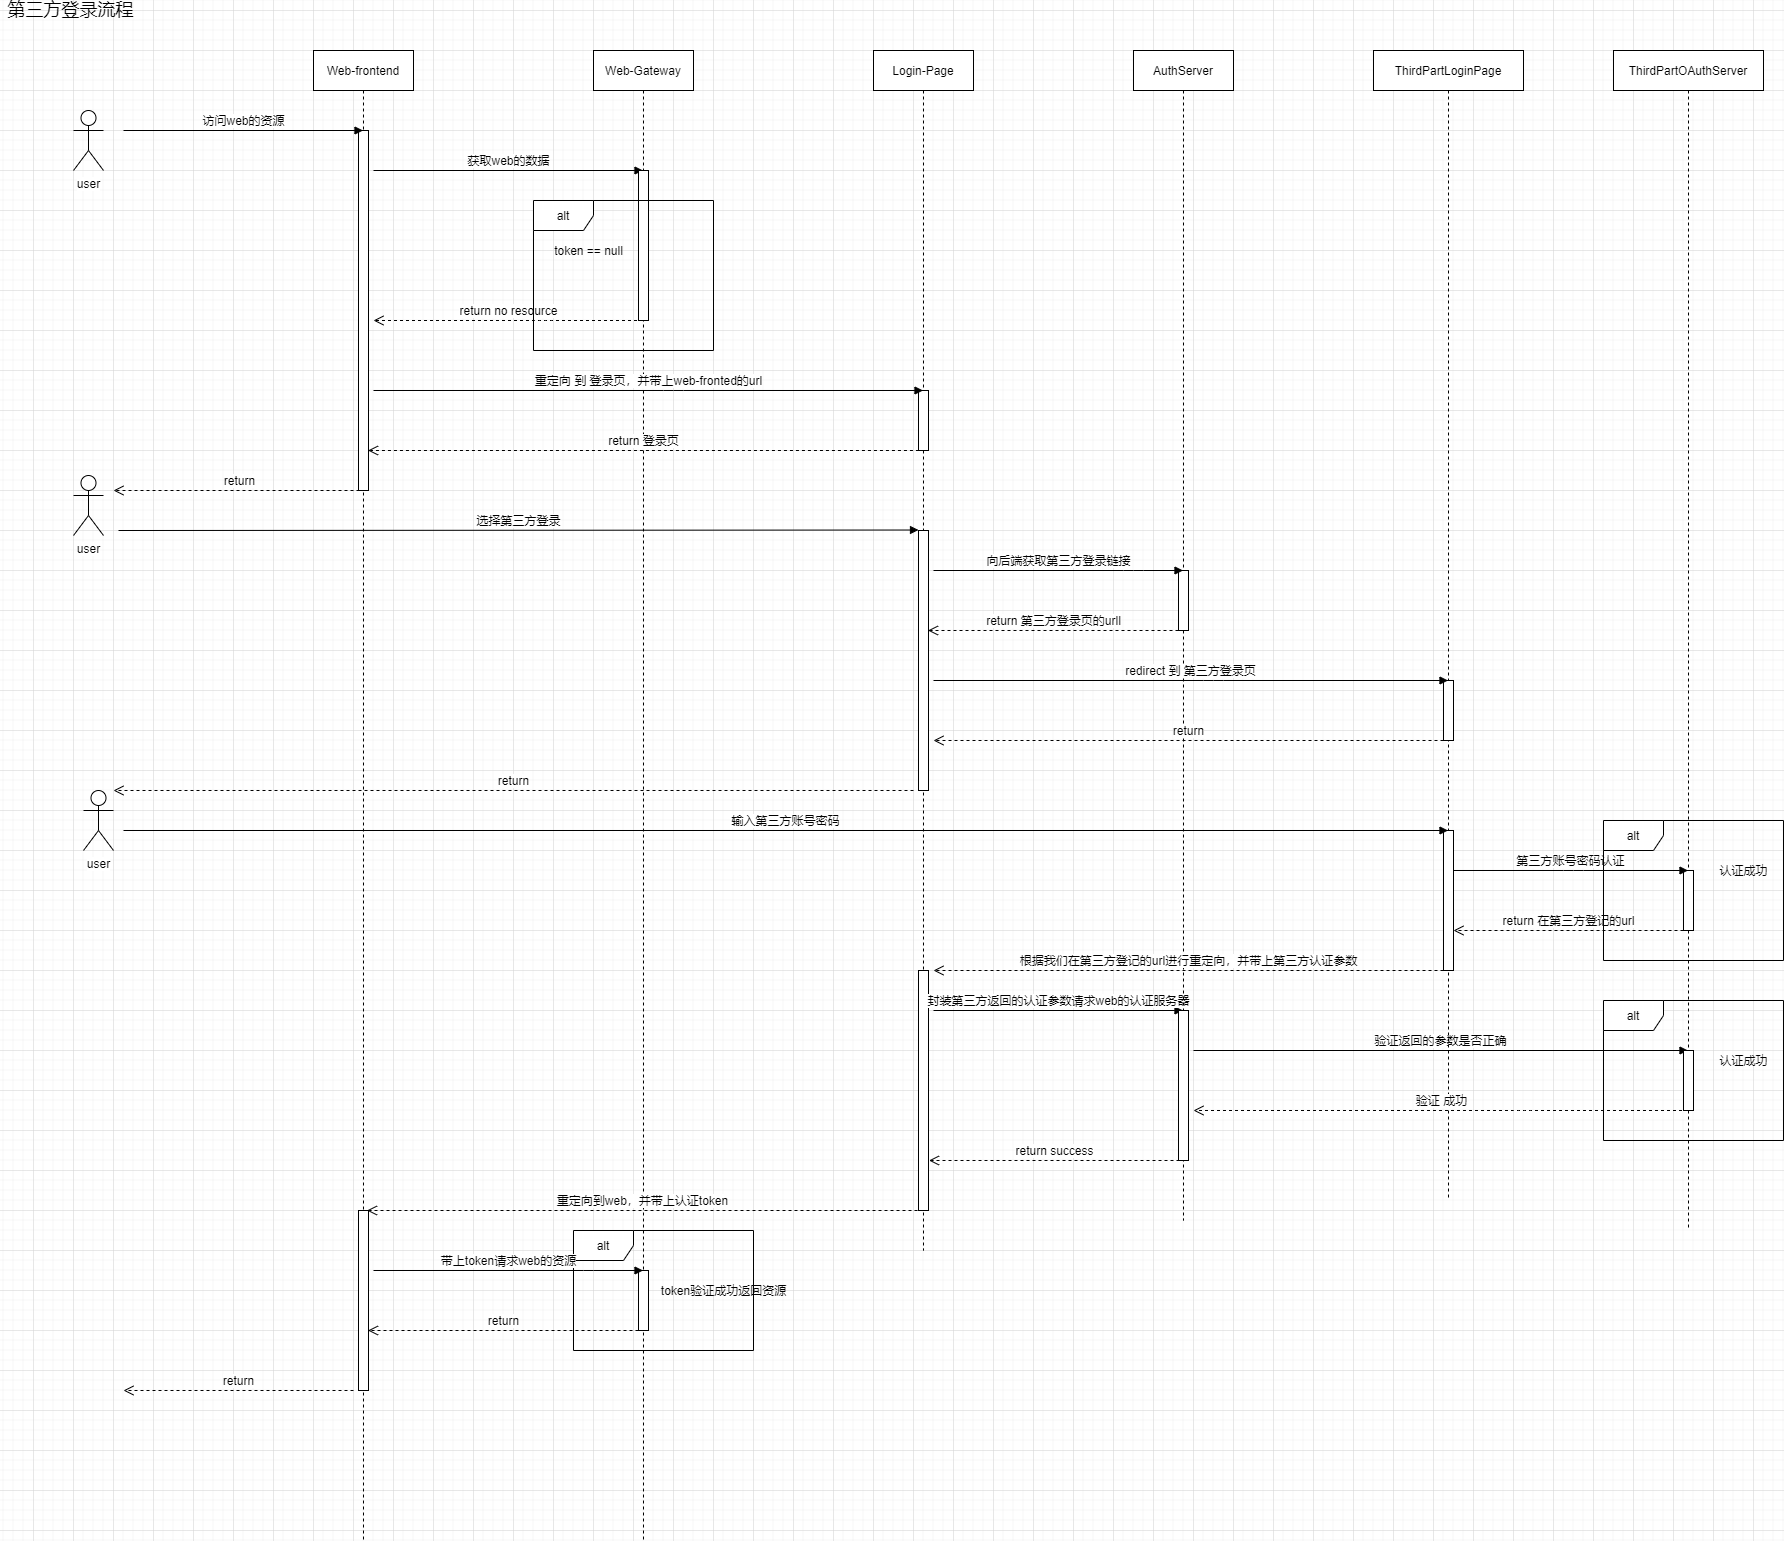
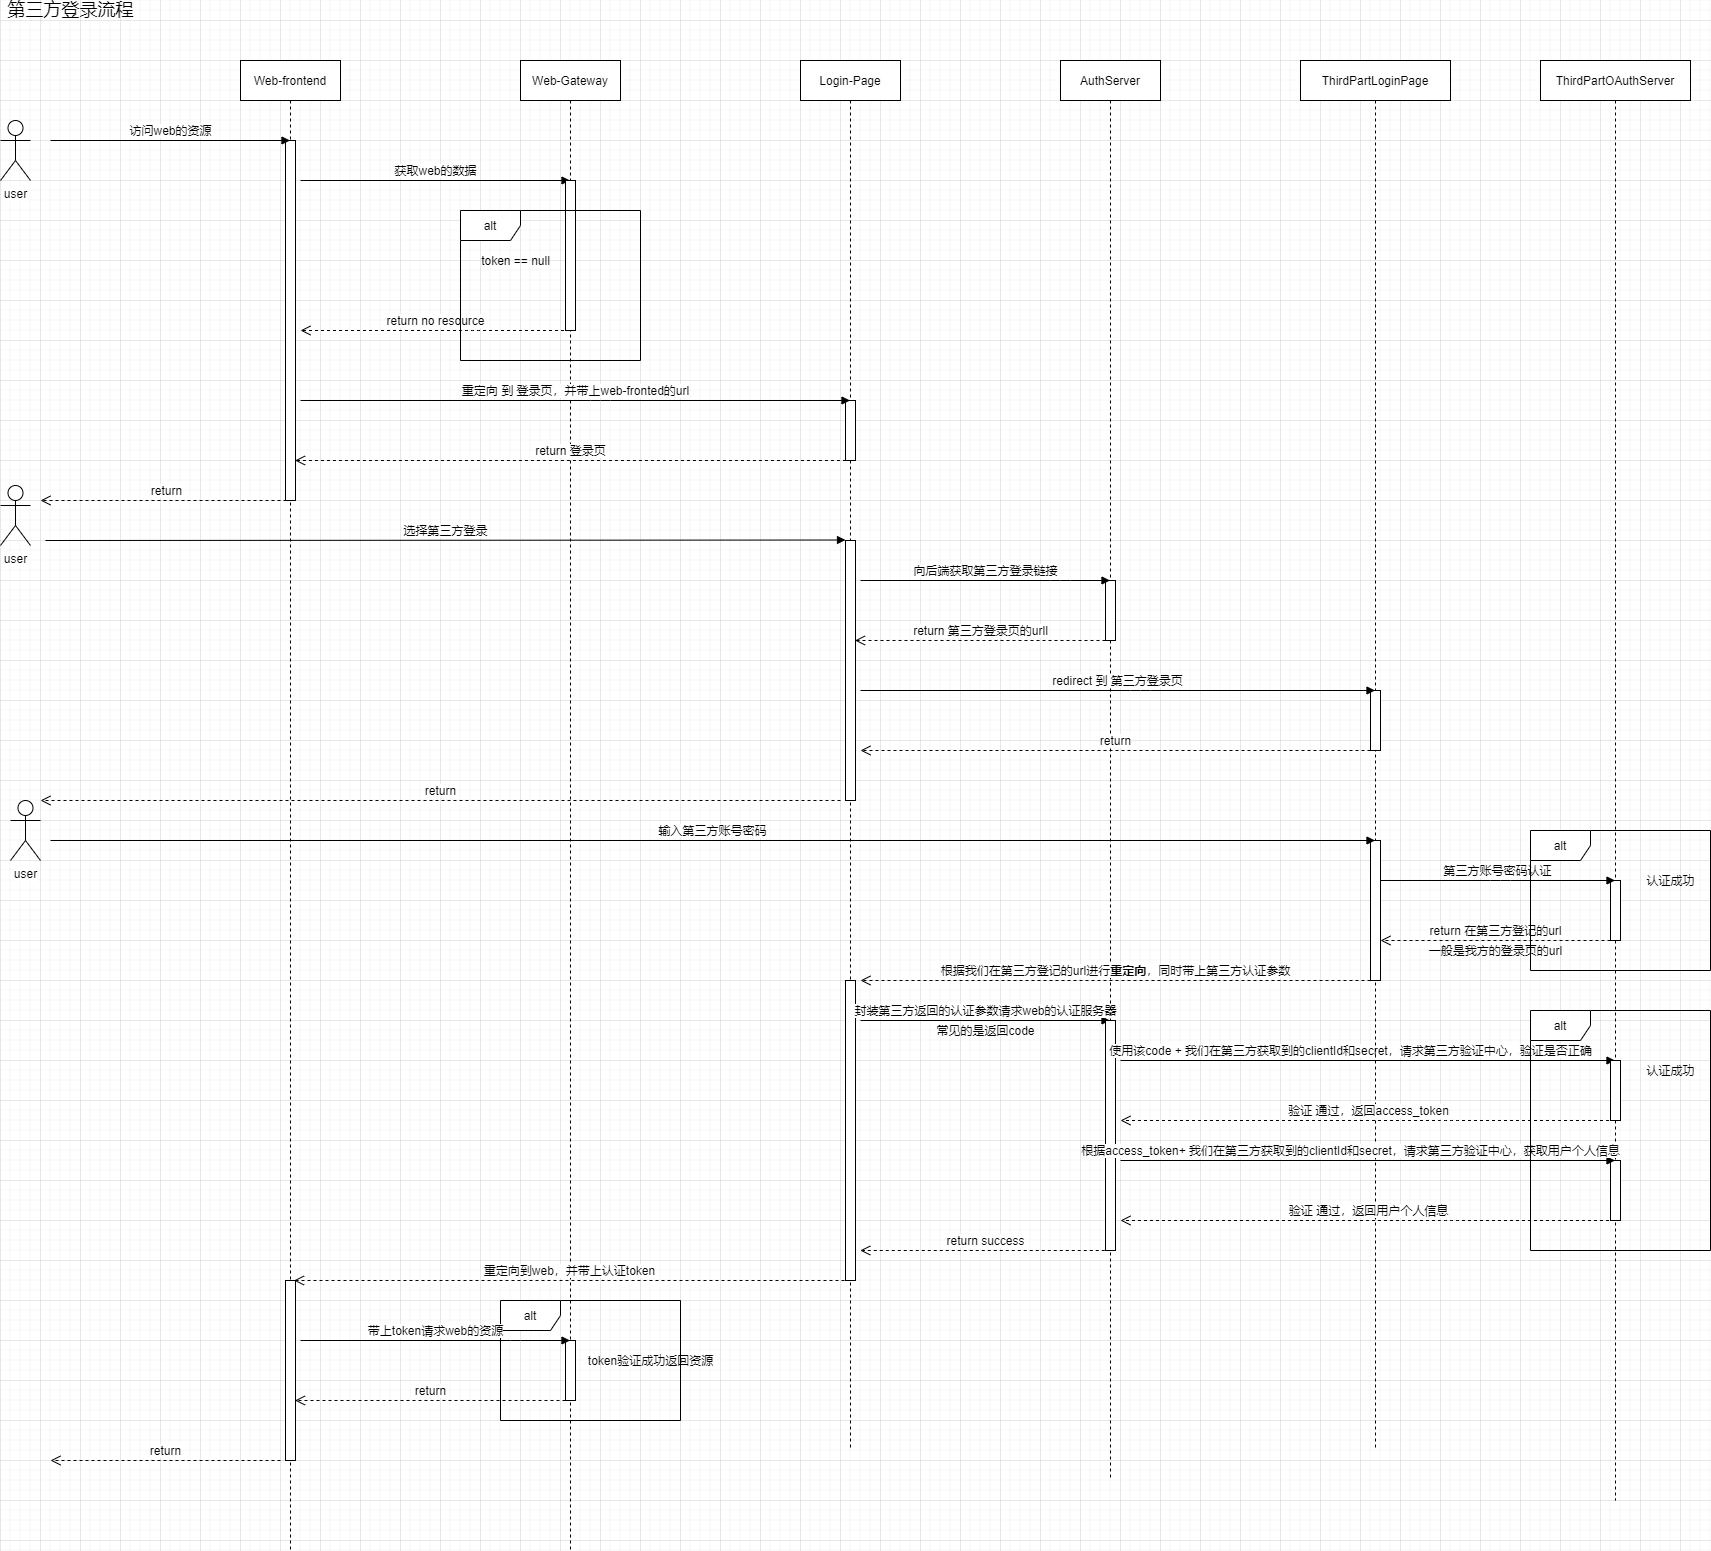
update note

diff --git a/Note/其他.md b/Note/其他.md
@@ -143,9 +143,21 @@ value：无
 
 # 基于OAuth2.0的第三方登录
 
-可参考：[理解OAuth 2.0](https://www.ruanyifeng.com/blog/2014/05/oauth_2_0.html)，这样基本就入门了，这里是总结项目中如何接入，一般在集成facebook和google的第三方登录也是类似的流程机制
+可参考：[理解OAuth 2.0](https://www.ruanyifeng.com/blog/2014/05/oauth_2_0.html)，这样基本就入门了，这里是总结项目中如何接入，一般在集成facebook和google的第三方登录也是类似的流程机制，这里只用到了access_token，对于refresh_token，是用来延长access_token的过期时间的，减少短时间内的重复登录，这里就没有涉及到了
 
 ![基于OAuth2的第三方登录](https://github.com/Nixum/Java-Note/raw/master/Note/picture/基于oauth2的第三方登录流程.png)
+
+为什么要后端要根据code + clientId + secret换成access_token，再根据access_token换用户个人信息？
+
+为什么后端不直接code + clientId + secret换用户个人信息呢？
+
+主要还是为了安全，防止中间人攻击
+
+* 重定向的参数是带在url里的，是直接暴露在客户端的，如果直接返回access_token就不安全，因此才多了code这一层，为了降低code被拦截泄漏后的风险，code的过期时间一般都很短，且是一次性的；
+
+* 另外就是后端对于外部的请求都是不信任的，因此接收到的参数(code)首先还要配合凭证去验证其合法性，对于验证通过后获得的access_token也有更多的操作空间，由后端持有，不会暴露出去
+
+  像上图那种登录方案，后端只需要用户个人信息换完token就算完事了，所以看起来好像直接使用code + clientId + secret换用户个人信息就行，但是如果此时需要再获取用户的其他信息，就没有没办法再用code去换了，只能要求用户再次登录，此时如果有access_token就显得多么重要了
 
 # 压测
 

diff --git a/Note/Java IO.md b/Note/Java IO.md
@@ -110,7 +110,7 @@ public class BIOClient {
 
 特点：
 
-* 同步非阻塞，通过缓冲区进行缓冲增加处理的灵活性，当某一线程里没有数据可用时，则去处理其他事情，保证线程不阻塞
+* 同步非阻塞，通过缓冲区进行缓冲增加处理的灵活性，当某一线程里**没有数据可用**时，则去处理其他事情，保证线程不阻塞
 * 由三个部分组成：Channel、Buffer、Selector
 
 * 数据总是从Channel读到Buffer中，或从Buffer写到Channel中，事件 + Selector监听Channel，实现一个线程处理多个操作。每一个Channel会对应一个Buffer、一个Selector对应多个Channel，Selector通过事件决定使用哪个Channel

diff --git a/Algorithm/README.md b/Algorithm/README.md
@@ -9,3 +9,6 @@
 [图解排序算法(四)之归并排序](http://www.cnblogs.com/chengxiao/p/6194356.html)
 
 [图解排序算法(五)之快速排序——三数取中法](http://www.cnblogs.com/chengxiao/p/6262208.html)
+
+![](https://github.com/Nixum/Java-Note/raw/master/Note/picture/sort_info.png)
+
